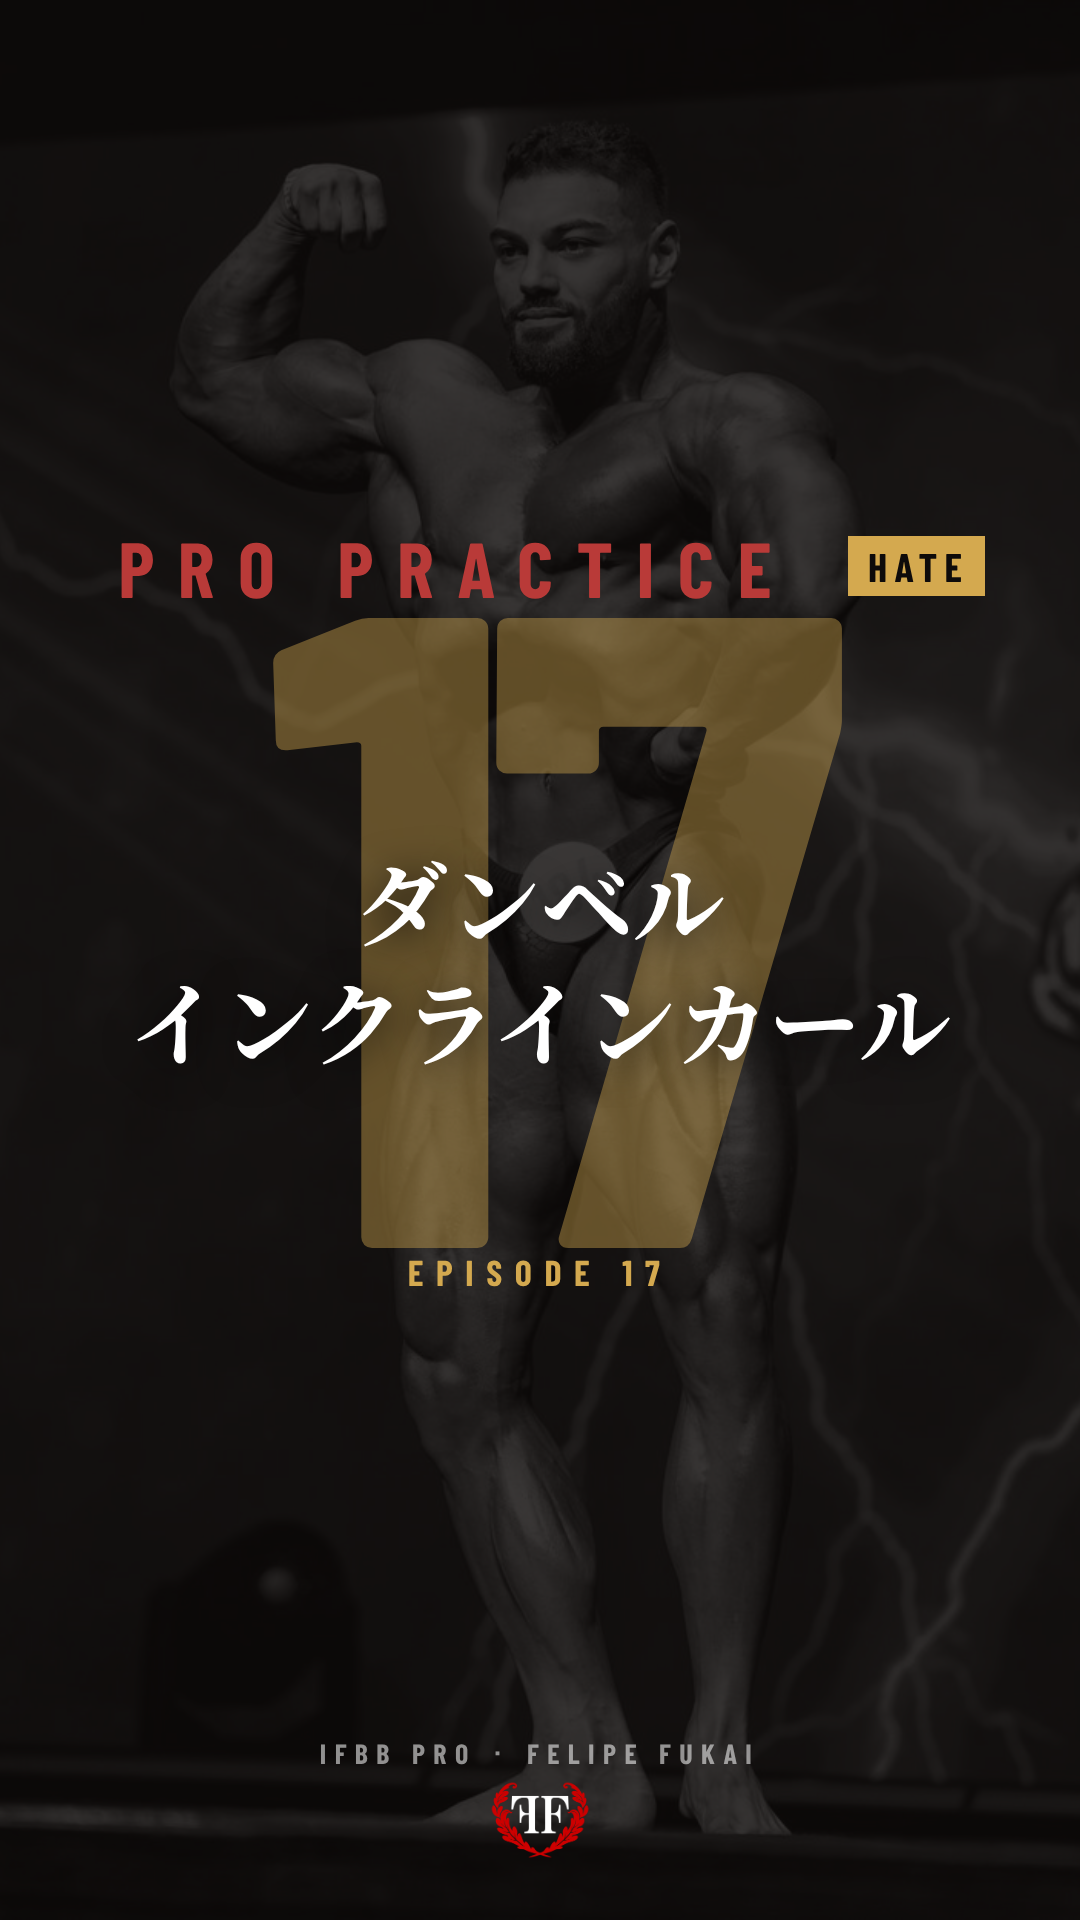
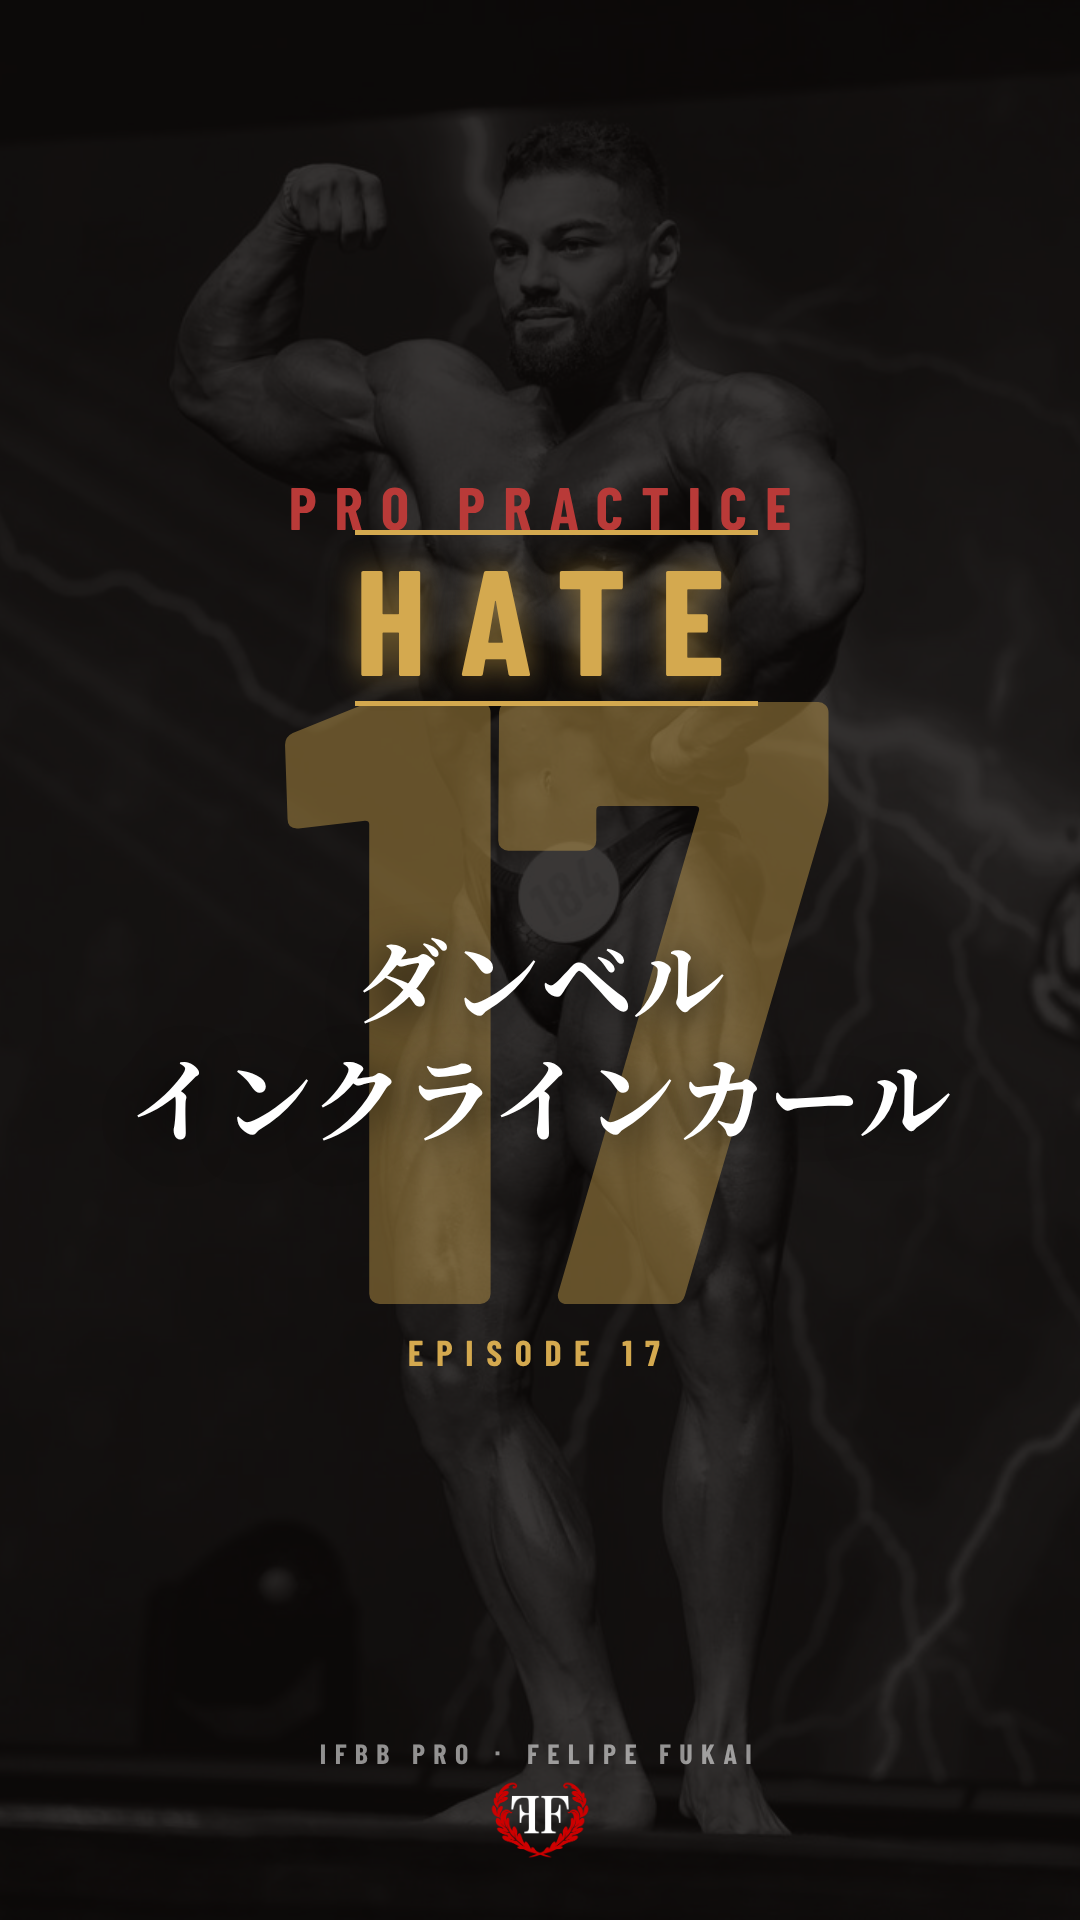
EP.17 HATE cover: HATE as a large gold headline (#80)
* Add UPPER DAY YouTube thumbnails (part 1, 2) and the series thumbnail template

Claude-Session: https://claude.ai/code/session_01HRty6kL8VRnpLHHHzSF3iS

* UPPER DAY thumbnails: reframe to keep the face visible and hide the burned-in caption

Claude-Session: https://claude.ai/code/session_01HRty6kL8VRnpLHHHzSF3iS

* UPPER DAY thumbnails v2: loud yellow/red creator style, distinct from the community look

Claude-Session: https://claude.ai/code/session_01HRty6kL8VRnpLHHHzSF3iS

* UPPER DAY thumbnails v3: competition roar photo plus gym face chip

Claude-Session: https://claude.ai/code/session_01HRty6kL8VRnpLHHHzSF3iS

* UPPER DAY thumbnails: soften hook to Felipe's voice

Claude-Session: https://claude.ai/code/session_01HRty6kL8VRnpLHHHzSF3iS

* UPPER DAY thumbnails: keep the hook line on one row

Claude-Session: https://claude.ai/code/session_01HRty6kL8VRnpLHHHzSF3iS

* UPPER DAY thumbnails: hook label on one line

Claude-Session: https://claude.ai/code/session_01HRty6kL8VRnpLHHHzSF3iS

* UPPER DAY thumbnails on the brand guide: FF black base, white type, laurel red as the single accent, gym press photo; add visual identity PDF

Claude-Session: https://claude.ai/code/session_01HRty6kL8VRnpLHHHzSF3iS

* UPPER DAY thumbnail: three promise-led headline variants on the brand template

Claude-Session: https://claude.ai/code/session_01HRty6kL8VRnpLHHHzSF3iS

* Add post-live story images (thanks + next live 11/23) and story template
[…]

diff --git a/assets/ig/pro-practice/cover-template-hate.html b/assets/ig/pro-practice/cover-template-hate.html
@@ -6,10 +6,13 @@
 .pro{position:absolute;left:0;right:0;bottom:150px;text-align:center;font-family:"BC",sans-serif;font-size:28px;letter-spacing:.3em;color:rgba(255,255,255,.55)}
 .logo{position:absolute;left:50%;transform:translateX(-50%);bottom:60px;height:80px}
 .bg{position:absolute;inset:0;background:url(stage.jpg) 50% 12%/cover no-repeat;filter:grayscale(1);opacity:.18}
-.ghost{position:absolute;left:50%;top:50%;transform:translate(-50%,-58%);font-family:"BC",sans-serif;font-size:900px;line-height:1;color:#D4A94F;opacity:.42;letter-spacing:-.04em}
-.lbl{position:absolute;left:0;right:0;top:520px;text-align:center;font-family:"BC",sans-serif;font-size:78px;letter-spacing:.3em;color:#B93A38;margin-left:.3em}
-.name{position:absolute;left:60px;right:60px;top:50%;transform:translateY(-50%);text-align:center;font-family:"NSJ",serif;font-size:104px;font-weight:700;line-height:1.3;text-shadow:0 6px 40px rgba(0,0,0,.8)}
-.sm{position:absolute;left:0;right:0;top:1250px;text-align:center;font-family:"BC",sans-serif;font-size:36px;letter-spacing:.35em;color:#D4A94F}
+.ghost{position:absolute;left:50%;top:50%;transform:translate(-50%,-50%);font-family:"BC",sans-serif;font-size:860px;line-height:1;color:#D4A94F;opacity:.42;letter-spacing:-.04em}
+.lbl{position:absolute;left:0;right:0;top:470px;text-align:center;font-family:"BC",sans-serif;font-size:60px;letter-spacing:.3em;color:#B93A38;margin-left:.3em}
+.name{position:absolute;left:60px;right:60px;top:54%;transform:translateY(-50%);text-align:center;font-family:"NSJ",serif;font-size:104px;font-weight:700;line-height:1.3;text-shadow:0 6px 40px rgba(0,0,0,.8)}
+.sm{position:absolute;left:0;right:0;top:1330px;text-align:center;font-family:"BC",sans-serif;font-size:36px;letter-spacing:.35em;color:#D4A94F}
+.hate{position:absolute;left:0;right:0;top:530px;text-align:center;font-family:"BC",sans-serif;font-size:150px;line-height:1;letter-spacing:.22em;margin-left:.22em;color:#D4A94F;font-weight:700;text-shadow:0 0 30px rgba(212,169,79,.55)}
+.hate span{display:inline-block;border-top:5px solid #D4A94F;border-bottom:5px solid #D4A94F;padding:6px 0 10px}
 </style></head><body><div class="bg"></div>
-<p class="ghost">17</p><p class="lbl">PRO PRACTICE <span style="color:#0E0B0A;background:#D4A94F;font-size:40px;letter-spacing:.18em;vertical-align:16px;margin-left:14px;padding:6px 16px 6px 20px;font-weight:700">HATE</span></p>
+<p class="ghost">17</p><p class="lbl">PRO PRACTICE</p>
+<p class="hate"><span>HATE</span></p>
 <p class="name" style="font-size:92px">ダンベル<br>インクラインカール</p><p class="sm">EPISODE 17</p><p class="pro">IFBB PRO ・ FELIPE FUKAI</p><img class="logo" src="logo.png" alt=""></body></html>
